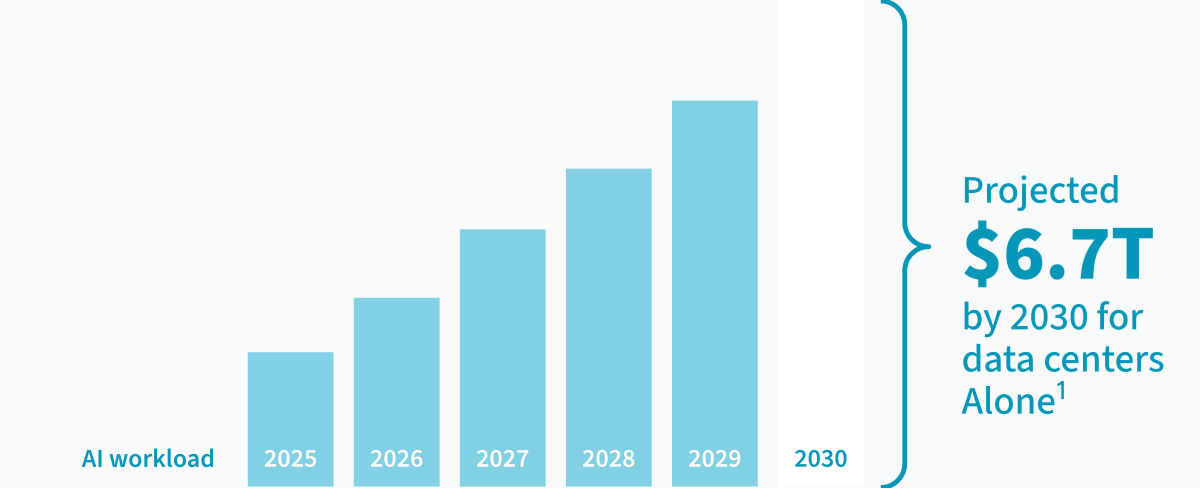
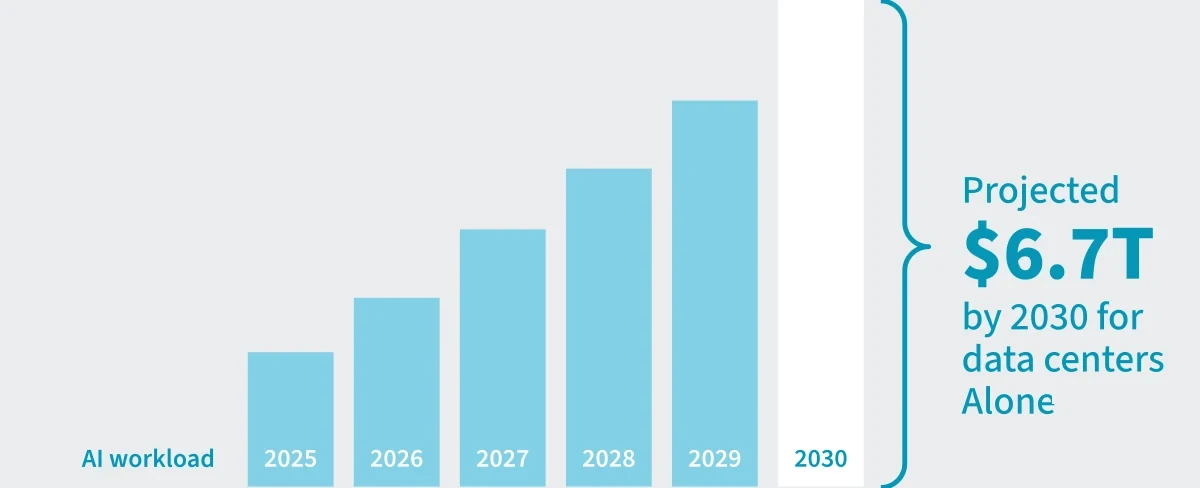
Refine hero & concept layout, outcomes, and add sourced footnotes
- Hero: remove the coastal-beach pill; move the cocoa photo into its own
  flex column so the text can never overlap it at any breakpoint, and
  top-left align the heading/subtext.
- Concept: connect each bubble to its chart card (flush, grey panels),
  triple the bubble bottom padding, and add clear spacing between the two
  columns when they stack. Reword the "We ask" question and change
  "@ NYCW" to "So at Climate Week…" (pin removed) / "We bring together…".
- Outcomes: check on the left with text flowing and wrapping to its right
  (first line centred on the check); enlarge the text to match the intro
  copy.
- Footnotes: add IPCC / McKinsey / UNEP references with subtle links, a
  superscript marker on the "We ask" question, and renumber the two chart
  footnotes (1->2, 2->3) — repainted in the raster images and re-added as
  crisp, linked HTML superscripts that scale with the chart.

diff --git a/styles.css b/styles.css
@@ -78,23 +78,24 @@ strong{font-weight:700}
 .hero-banner{
   position:relative;
   display:flex;
-  align-items:center;
-  min-height:clamp(260px, 27vw, 330px);
+  align-items:stretch;             /* text sits at the top-left, not centred */
+  min-height:clamp(280px, 30vw, 420px);
   border-radius:var(--radius);
-  overflow:hidden;                 /* clips the pills to the box */
+  overflow:hidden;                 /* clips the photo pill to the box */
   background:#008542;
   color:var(--white);
 }
+/* Wave keeps its aspect ratio (cover never distorts) and is anchored left,
+   so responsive narrowing crops the wave from the RIGHT — never re-centres it. */
 .hero-banner__waves{
   position:absolute;inset:0;pointer-events:none;
   background-image:url("assets/green-wave.webp?v=1");
-  background-size:cover;background-position:center;background-repeat:no-repeat;
+  background-size:cover;background-position:left center;background-repeat:no-repeat;
 }
 .hero-banner__body{
   position:relative;z-index:2;
+  flex:1 1 auto;min-width:0;        /* takes the space left of the photo column */
   padding:clamp(26px,4vw,44px);
-  /* reserve room on the right for the floating pills so text flows wide */
-  padding-right:clamp(150px, 30vw, 330px);
 }
 .hero-title{
   font-family:var(--font-display);
@@ -112,27 +113,22 @@ strong{font-weight:700}
 }
 .hero-sub strong{color:var(--lime)}
 
-/* two photos as clipped, staggered pills floating on the right */
-.hero-banner__photos{position:absolute;inset:0;z-index:1;pointer-events:none}
+/* photo lives in its own flex column, so it reserves its width and the text
+   can never overlap it. The pill bleeds past the top & bottom and is clipped. */
+.hero-banner__photos{
+  position:relative;z-index:1;pointer-events:none;
+  flex:0 0 clamp(190px, 26vw, 300px);
+  margin-right:clamp(16px, 3vw, 48px);
+}
 .hero-pill{
   position:absolute;
-  aspect-ratio:33 / 50;
   overflow:hidden;
   border-radius:999px;             /* capsule / pill */
   box-shadow:0 10px 26px rgba(0,0,0,.25);
 }
 .hero-pill img{width:100%;height:100%;object-fit:cover;display:block}
-.hero-pill--beach{                 /* upper-right, clipped by the top edge */
-  width:clamp(112px, 15vw, 150px);
-  right:clamp(12px, 2.5vw, 30px);
-  top:clamp(-36px, -2.5vw, -14px);
-  z-index:1;
-}
-.hero-pill--cocoa{                 /* lower, left of the beach pill, clipped at the bottom */
-  width:clamp(126px, 17vw, 168px);
-  right:clamp(70px, 11vw, 128px);
-  bottom:clamp(-42px, -3vw, -16px);
-  z-index:2;
+.hero-pill--cocoa{                 /* fills the photo column; bleeds past top & bottom */
+  inset:clamp(-30px, -2.4vw, -12px) 0;
 }
 
 /* =========================================================================
@@ -152,7 +148,6 @@ strong{font-weight:700}
 }
 .bubble-eyebrow--teal{color:var(--teal)}
 .bubble-eyebrow--green{color:var(--green-dark)}
-.pin{width:20px;height:20px;color:var(--green-dark)}
 
 .bubble{
   position:relative;
@@ -160,6 +155,7 @@ strong{font-weight:700}
   flex:1 1 auto;             /* fill the column so both bubbles are equal height */
   border-radius:16px 16px 0 0;   /* square bottom: chart card sits flush below */
   padding:clamp(20px,3vw,28px);
+  padding-bottom:clamp(60px,9vw,84px);   /* 3× the base padding for breathing room above the chart */
   color:var(--white);
 }
 /* pointer on top of each bubble */
@@ -203,11 +199,11 @@ strong{font-weight:700}
 /* chart cards — an image (bar / pie) on a soft grey panel, one per column */
 .chart-card{
   margin:0;
-  background:#f8fafc;                 /* matches the chart image background */
+  background:var(--bg-subtle);        /* same gray as the event-cards band; matches the chart images */
   border-radius:0 0 16px 16px;        /* square top: sits flush under the bubble */
   overflow:hidden;
   padding-block:clamp(16px,2.5vw,26px);   /* breathing room above/below the chart */
-  display:flex;align-items:center;justify-content:center;
+  display:block;
 }
 .chart-img{display:block;width:100%;height:auto}
 
@@ -393,11 +389,15 @@ strong{font-weight:700}
   display:grid;grid-template-columns:repeat(3,1fr);gap:clamp(14px,2.5vw,22px);
 }
 .outcome{
+  --oc-fs:clamp(1.05rem,2.2vw,1.28rem);   /* matches the .bubble-intro text size */
   background:#f1f3f5;border-radius:14px;padding:clamp(18px,2.5vw,24px);
-  display:flex;flex-direction:column;gap:14px;
+  display:flex;flex-direction:row;align-items:flex-start;gap:14px;
 }
-.outcome p{margin:0;font-size:1.02rem;line-height:1.4;color:var(--text)}
-.check--lg{width:30px;height:30px;background:var(--teal)}
+/* text flows to the right of the check and wraps in a clean column beneath itself */
+.outcome p{margin:0;font-size:var(--oc-fs);line-height:1.4;color:var(--text)}
+.check--lg{width:30px;height:30px;flex:0 0 30px;background:var(--teal)}
+/* nudge the check so its centre lines up with the centre of the first text line */
+.outcome .check--lg{margin-top:calc((var(--oc-fs) * 1.4 - 30px) / 2)}
 .check--lg::after{left:10px;top:6px;width:7px;height:13px;border-color:var(--white);border-width:0 3px 3px 0}
 
 /* =========================================================================
@@ -429,6 +429,43 @@ strong{font-weight:700}
   padding-block:24px 40px;
 }
 
+/* footnote reference marker in body text */
+.fn-ref{font-size:.62em;line-height:0;vertical-align:super}
+.fn-ref a{color:inherit;text-decoration:none}
+.fn-ref a:hover,.fn-ref a:focus-visible{text-decoration:underline}
+
+/* footnote number overlaid on a chart image (scales with the image via cqw) */
+.chart-imgwrap{position:relative;display:block;container-type:inline-size}
+.chart-img{display:block;width:100%}
+.chart-fn{
+  position:absolute;z-index:1;
+  font-family:var(--font-text);font-weight:600;line-height:1;
+  font-size:2.4cqw;text-decoration:none;
+}
+.chart-fn:hover,.chart-fn:focus-visible{text-decoration:underline}
+.chart-fn--ai{left:87.6%;top:76.2%;color:#0093c4}
+.chart-fn--needs{left:71%;top:71.6%;color:#008542}
+
+/* references / footnotes at the bottom of the page */
+.footnotes{padding-block:clamp(16px,3vw,32px) 4px}
+.footnotes-list{
+  list-style:none;margin:0;padding:0;counter-reset:fn;
+  display:grid;gap:9px;max-width:860px;
+  font-size:.82rem;line-height:1.45;color:var(--text-soft);
+}
+.footnotes-list li{counter-increment:fn;position:relative;padding-left:2.1em}
+.footnotes-list li::before{
+  content:"[" counter(fn) "]";position:absolute;left:0;top:0;
+  font-variant-numeric:tabular-nums;
+}
+.footnotes-list em{font-style:italic}
+.fn-link{
+  color:var(--text-soft);
+  text-decoration:underline;text-decoration-color:rgba(0,0,0,.25);
+  text-underline-offset:2px;word-break:break-word;
+}
+.fn-link:hover,.fn-link:focus-visible{color:var(--ink);text-decoration-color:currentColor}
+
 /* =========================================================================
    RESPONSIVE
    ========================================================================= */
@@ -437,22 +474,25 @@ strong{font-weight:700}
   /* keep each chart directly under its own bubble when stacked */
   .concept-grid > :nth-child(1){order:1}   /* We ask bubble */
   .concept-grid > :nth-child(3){order:2}   /* bar chart */
-  .concept-grid > :nth-child(2){order:3}   /* @ NYCW bubble */
+  /* clear division between the We-ask chart and the So-at-Climate-Week section */
+  .concept-grid > :nth-child(2){order:3;margin-top:clamp(30px,7vw,46px)}   /* @ NYCW bubble */
   .concept-grid > :nth-child(4){order:4}   /* pie chart */
   .outcomes-grid{grid-template-columns:1fr}
+}
 
-  /* hero: text on top, the two pills in a row beneath it */
-  .hero-banner{flex-direction:column;align-items:stretch}
-  .hero-banner__body{padding-right:clamp(26px,4vw,44px);padding-bottom:6px}
+/* hero switches to a portrait, stacked layout only on phones; the box sizes
+   to its content and its overflow clips the base of the pill */
+@media (max-width:600px){
+  .hero-banner{flex-direction:column;align-items:stretch;min-height:0}
   .hero-sub{max-width:none}
   .hero-banner__photos{
-    position:static;pointer-events:auto;
-    display:flex;gap:clamp(12px,3vw,18px);justify-content:center;
-    padding:0 clamp(20px,5vw,28px) clamp(22px,5vw,30px);
+    flex:0 0 auto;margin-right:0;align-self:center;
+    display:flex;justify-content:center;
   }
-  .hero-pill{
-    position:static;inset:auto;
-    width:clamp(120px,34vw,150px);
+  .hero-pill--cocoa{
+    position:relative;inset:auto;
+    width:clamp(230px, 64vw, 330px);aspect-ratio:33 / 50;
+    margin:clamp(6px,2vw,16px) 0 clamp(-64px,-13vw,-30px);
   }
 }
 

diff --git a/index.html b/index.html
@@ -11,7 +11,7 @@
   <link rel="preconnect" href="https://fonts.gstatic.com" crossorigin />
   <link href="https://fonts.googleapis.com/css2?family=Barlow+Semi+Condensed:wght@500;600;700;800&family=Source+Sans+3:wght@400;600;700&display=swap" rel="stylesheet" />
 
-  <link rel="stylesheet" href="styles.css?v=15" />
+  <link rel="stylesheet" href="styles.css?v=22" />
 </head>
 <body>
   <main class="page">
@@ -33,9 +33,6 @@
           <figure class="hero-pill hero-pill--cocoa">
             <img src="assets/hero-cocoa.webp" alt="Two cocoa farmers looking at a phone beside drying cacao beans" />
           </figure>
-          <figure class="hero-pill hero-pill--beach">
-            <img src="assets/hero-beach.webp" alt="A great egret taking flight as fishers bring in their net at the shore" />
-          </figure>
         </div>
       </div>
     </header>
@@ -52,20 +49,18 @@
           <div class="bubble bubble--teal">
             <p class="bubble-intro">AI-enabled adaptation solutions are already working.</p>
             <p class="bubble-lead">
-              So what proof would it take to move even a tiny fraction of the
-              Trillions flowing into AI to the people facing the worst of climate change?
+              So what would it take to move even a tiny fraction of the trillions of
+              dollars flowing into AI to the billions of people facing the worst of
+              climate change?<sup class="fn-ref"><a href="#fn1">1</a></sup>
             </p>
           </div>
         </div>
 
         <!-- @ NYCW -->
         <div class="bubble-col">
-          <p class="bubble-eyebrow bubble-eyebrow--green">
-            <svg class="pin" viewBox="0 0 24 24" aria-hidden="true"><path fill="currentColor" d="M12 2a7 7 0 0 0-7 7c0 5 7 13 7 13s7-8 7-13a7 7 0 0 0-7-7Zm0 9.5A2.5 2.5 0 1 1 12 6.5a2.5 2.5 0 0 1 0 5Z"/></svg>
-            @ NYCW
-          </p>
+          <p class="bubble-eyebrow bubble-eyebrow--green">So at Climate Week&hellip;</p>
           <div class="bubble bubble--green">
-            <p class="bubble-lead">Bring together the 3 audiences who all know parts of the answer.</p>
+            <p class="bubble-lead">We bring together the 3 audiences who all know parts of the answer:</p>
             <ul class="checklist">
               <li><span class="check check--ongreen" aria-hidden="true"></span><span><strong>Nonprofits</strong> with solutions</span></li>
               <li><span class="check check--ongreen" aria-hidden="true"></span><span><strong>Tech Companies</strong> with infrastructure</span></li>
@@ -76,10 +71,16 @@
 
         <!-- chart cards, one under each bubble -->
         <figure class="chart-card">
-          <img class="chart-img" src="assets/chart-ai.webp" alt="Projected AI data-center spend growing to a projected $6.7 trillion by 2030 for data centers alone" />
+          <span class="chart-imgwrap">
+            <img class="chart-img" src="assets/chart-ai.webp?v=3" alt="Projected AI data-center spend growing to a projected $6.7 trillion by 2030 for data centers alone" />
+            <a class="chart-fn chart-fn--ai" href="#fn2" aria-label="Footnote 2">2</a>
+          </span>
         </figure>
         <figure class="chart-card">
-          <img class="chart-img" src="assets/chart-needs.webp" alt="85% of global adaptation needs lie in the Global South" />
+          <span class="chart-imgwrap">
+            <img class="chart-img" src="assets/chart-needs.webp?v=3" alt="85% of global adaptation needs lie in the Global South" />
+            <a class="chart-fn chart-fn--needs" href="#fn3" aria-label="Footnote 3">3</a>
+          </span>
         </figure>
       </div>
     </section>
@@ -274,6 +275,14 @@
           and help steward this critical emerging ecosystem with us?
         </p>
       </div>
+    </section>
+
+    <section class="footnotes container" aria-label="References">
+      <ol class="footnotes-list">
+        <li id="fn1">Intergovernmental Panel on Climate Change (IPCC), <em>Climate Change 2023 Synthesis Report</em>, 2023. Available at: <a class="fn-link" href="https://www.ipcc.ch/report/ar6/syr/downloads/report/IPCC_AR6_SYR_SPM.pdf" target="_blank" rel="noopener noreferrer">https://www.ipcc.ch/report/ar6/syr/downloads/report/IPCC_AR6_SYR_SPM.pdf</a></li>
+        <li id="fn2">McKinsey &amp; Company. <em>The cost of compute: A $7 trillion race to scale data centers</em>. Technology, Media &amp; Telecommunications Practice, April 2025. Available at: <a class="fn-link" href="https://www.mckinsey.com/industries/technology-media-and-telecommunications/our-insights/the-cost-of-compute-a-7-trillion-dollar-race-to-scale-data-centers" target="_blank" rel="noopener noreferrer">https://www.mckinsey.com/industries/technology-media-and-telecommunications/our-insights/the-cost-of-compute-a-7-trillion-dollar-race-to-scale-data-centers</a></li>
+        <li id="fn3">UNEP, <em>Adaptation Gap Report</em>, 2023. Available at: <a class="fn-link" href="https://www.unep.org/resources/adaptation-gap-report-2023" target="_blank" rel="noopener noreferrer">https://www.unep.org/resources/adaptation-gap-report-2023</a></li>
+      </ol>
     </section>
 
     <footer class="site-footer container">